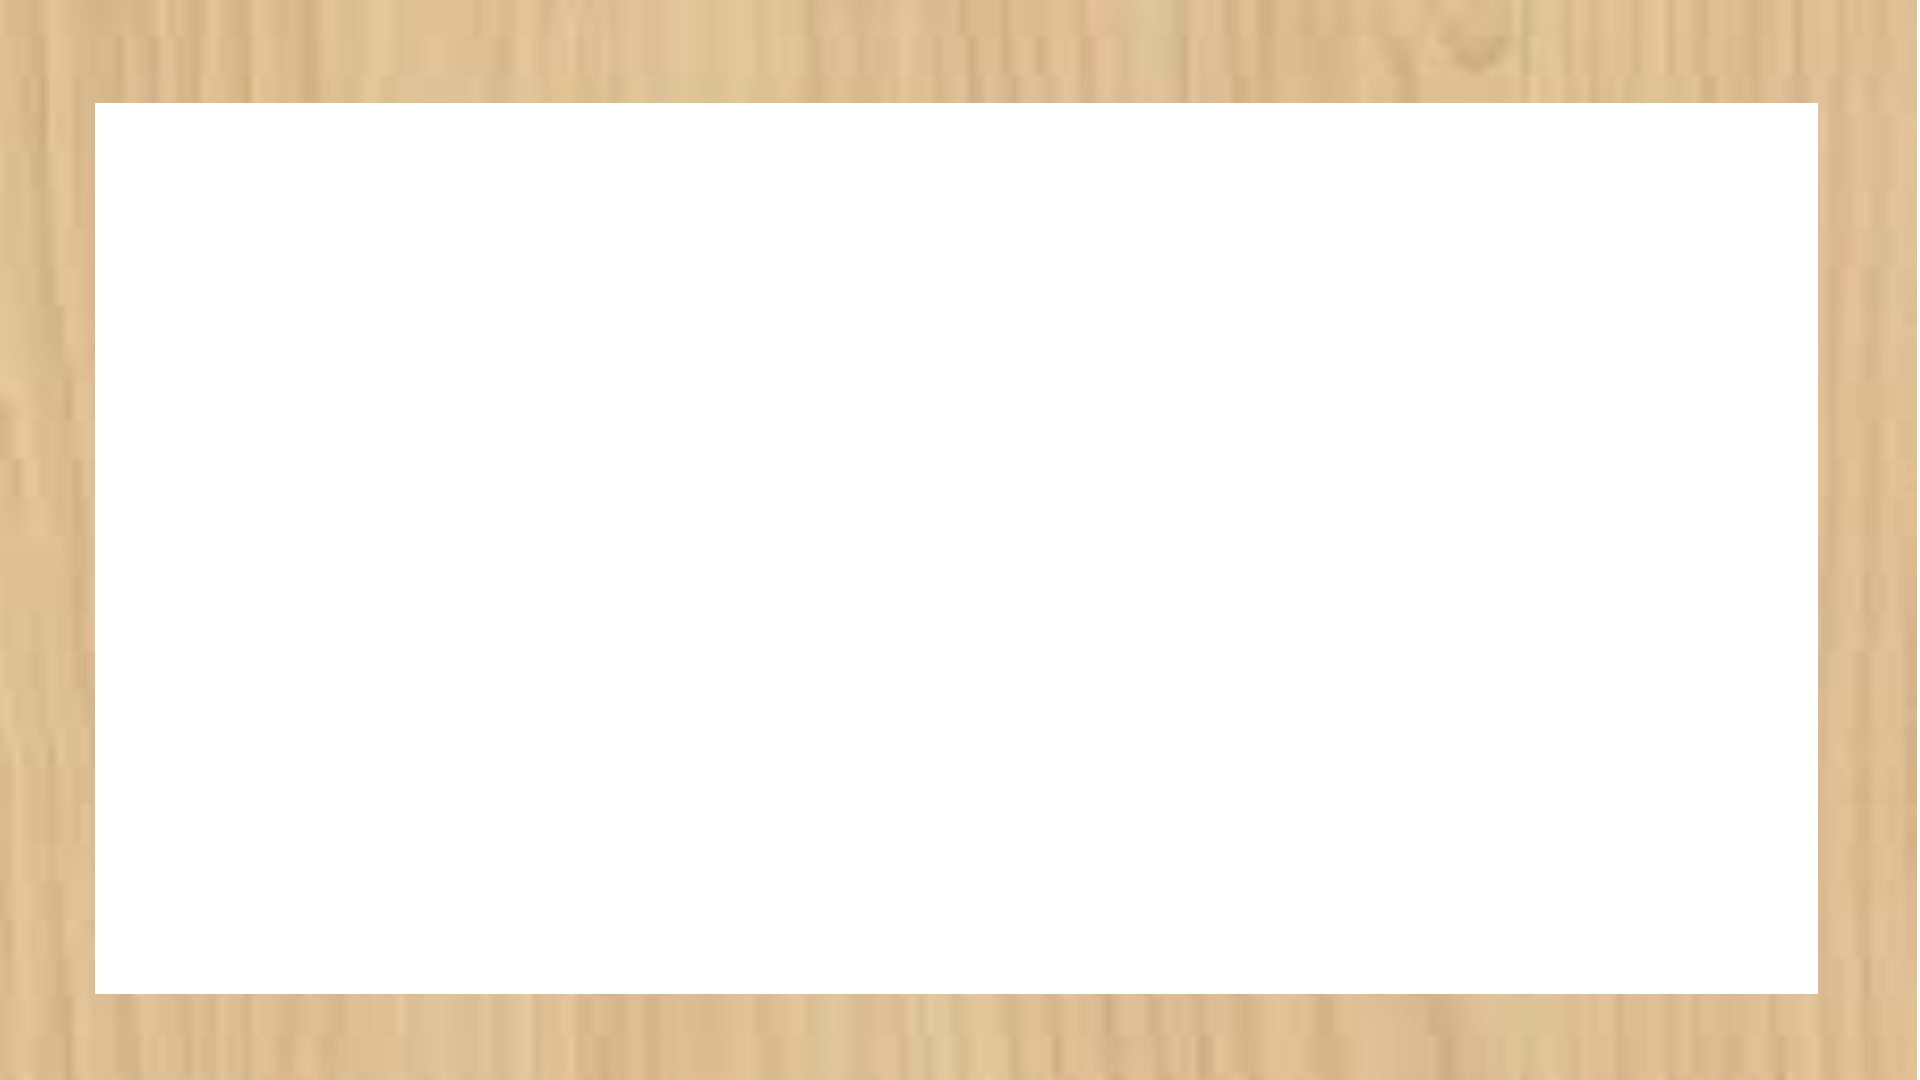
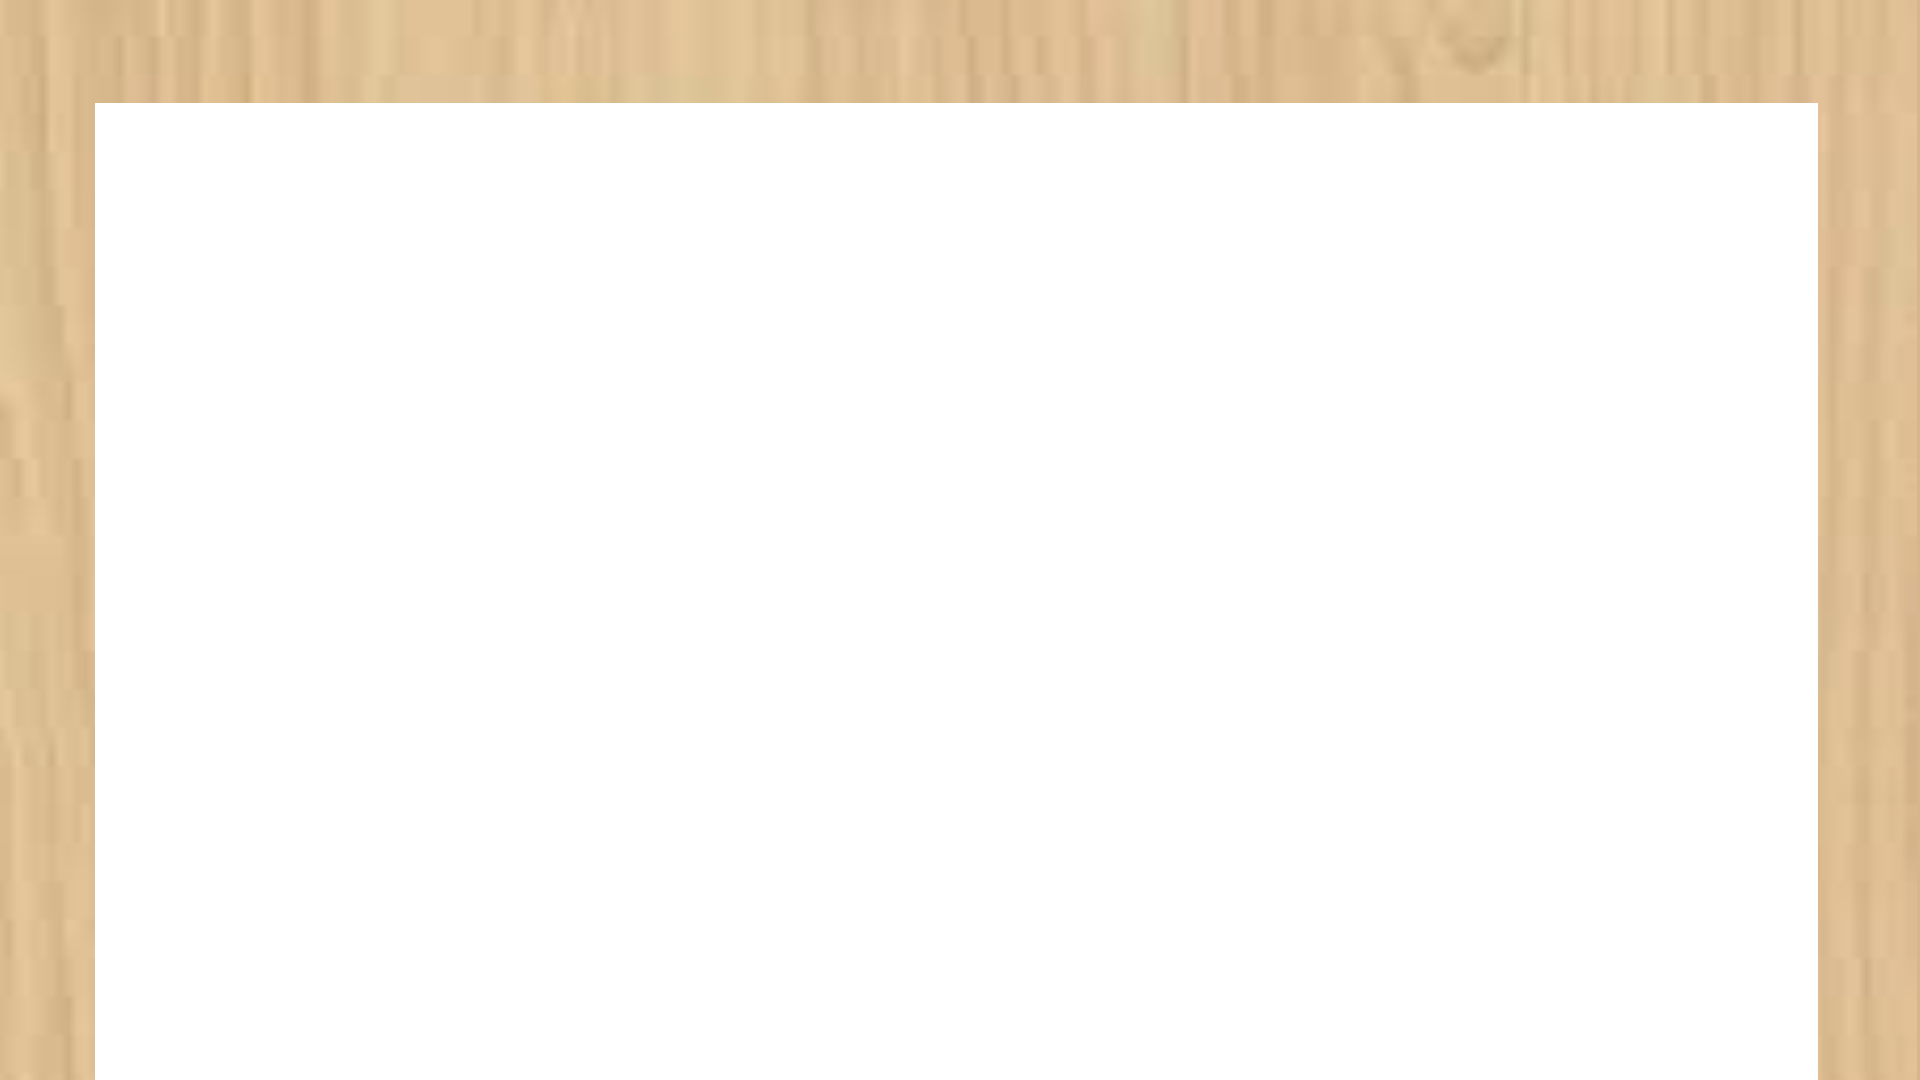
new image, rotating room with baked perspective test

Changed region(s): [[0.0312, 0.9167, 0.9688, 1.0]]

diff --git a/DGLDemo1/main.c b/DGLDemo1/main.c
@@ -66,14 +66,18 @@ int WINAPI WinMain(_In_ HINSTANCE hInstance, _In_opt_ HINSTANCE hPrevInstance, _
 
     //room testing
     DGL_Texture* tex0 = DGL_Graphics_LoadTexture("./Assets/Layers/00.png");
-    DGL_Texture* tex1 = DGL_Graphics_LoadTexture("./Assets/Paper/wall2.png");
+    DGL_Texture* tex1 = DGL_Graphics_LoadTexture("./Assets/Layers/frame.png");
+
     DGL_Texture* tex2 = DGL_Graphics_LoadTexture("./Assets/Paper/wall3.png");
     DGL_Texture* tex3 = DGL_Graphics_LoadTexture("./Assets/Paper/paper4.png");
 
     TextureList* list = loadTextureList(0, 1);
 
-    Room* r = createRoom(tex0, tex3, tex3, tex3, tex3, tex3, 1.0f);
-    Room* r2 = createRoom(tex1, tex2, tex1, tex2, tex1, tex1, 1.5f);
+    Room* r = createRoom(tex1, tex1, tex1, tex1, tex1, tex1, 1.0f);
+
+    Room* r2 = createRoom(tex0, tex0, tex0, tex0, tex0, tex0, 1.5f);
+
+
     r2->width *= 1.0f;
 
     Block* block = createBlock((DGL_Vec2) { 128.0f, 128.0f }, 0.5f, list->textures[0]);

diff --git a/DGLDemo1/rotateroom.c b/DGLDemo1/rotateroom.c
@@ -19,7 +19,7 @@ Room* createRoom(DGL_Texture* front, DGL_Texture* right, DGL_Texture* rear, DGL_
 		r->depth = depth;
 		r->mesh = createRectMesh(1.0f, 1.0f);
 		r->width = DGL_Window_GetMonitorSize().x * depth;
-		r->height = (DGL_Window_GetMonitorSize().y/2);
+		r->height = (DGL_Window_GetMonitorSize().y/1.0f);
 	}
 	return r;
 }
